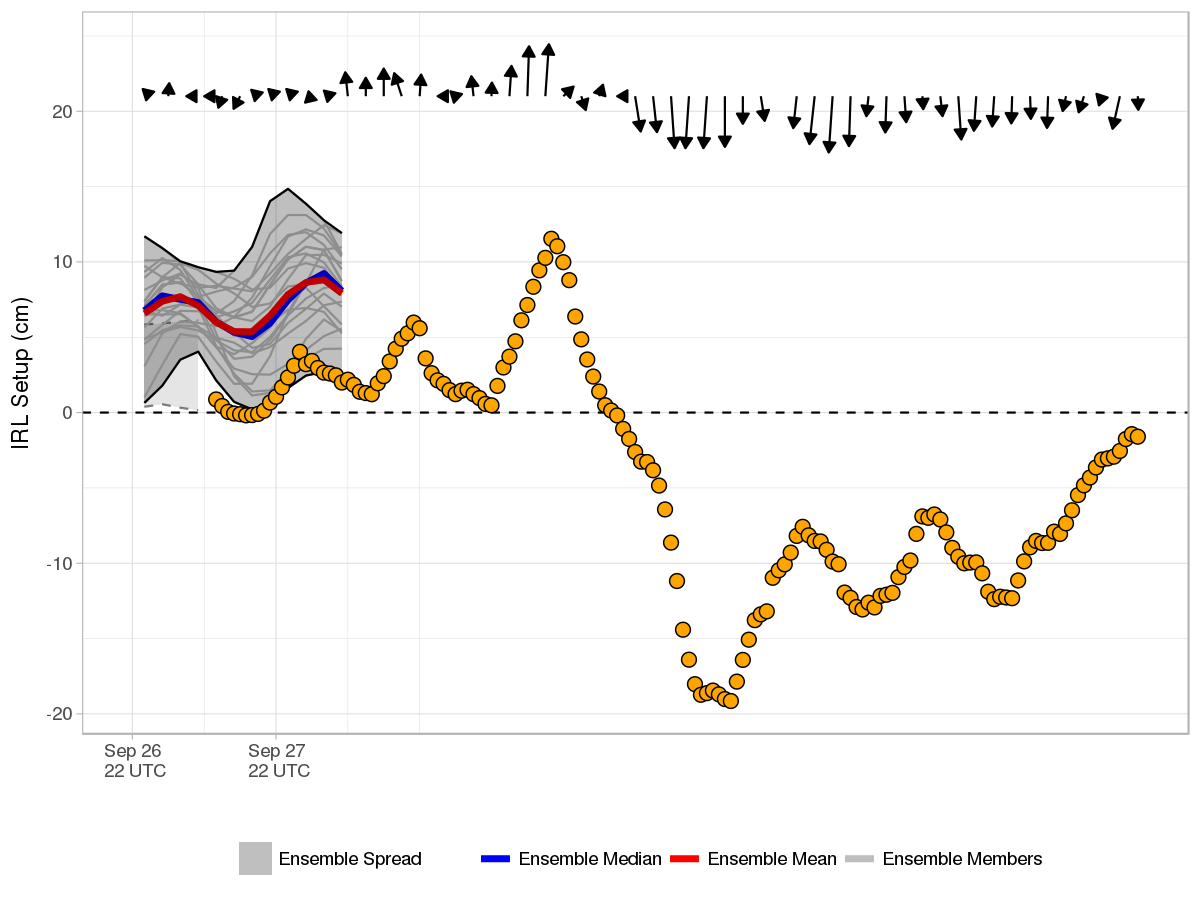
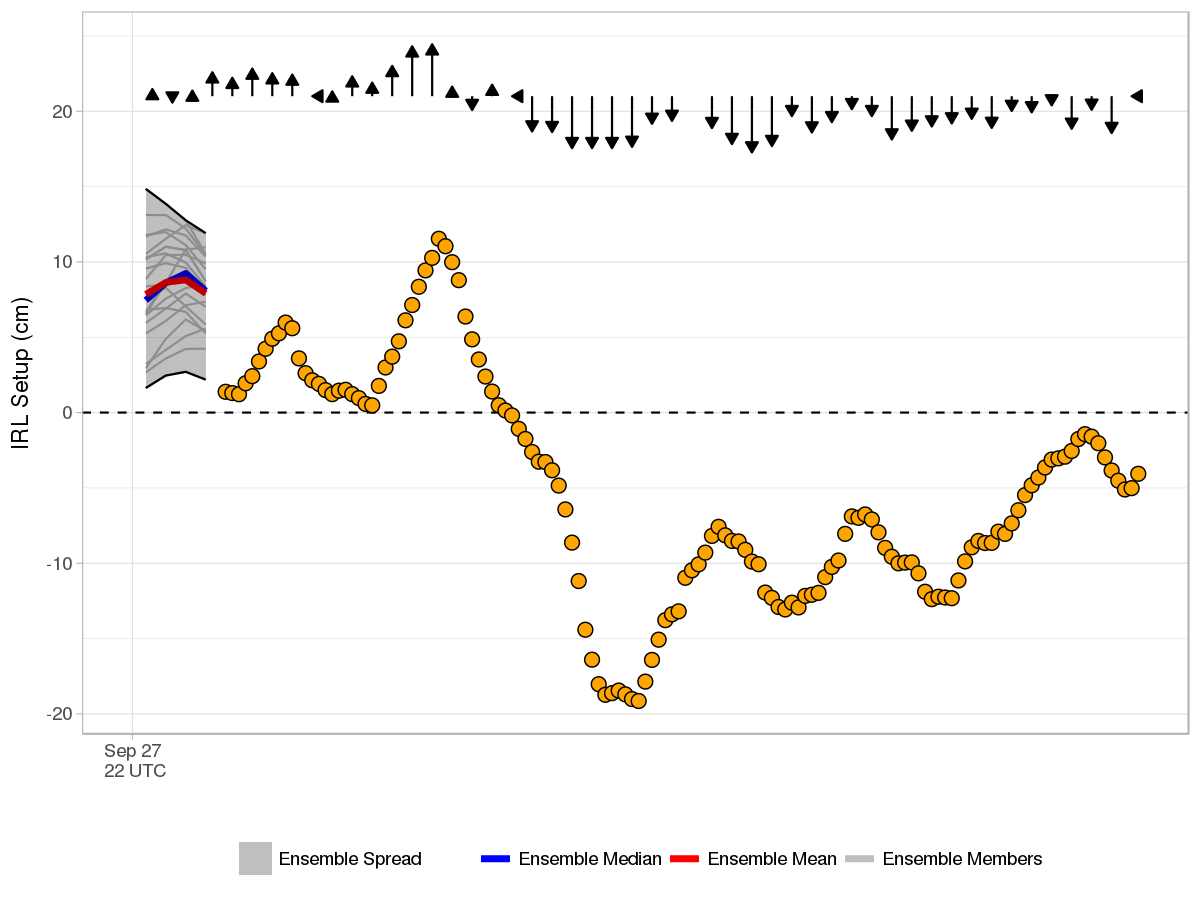
Forecast Update 2020100400

diff --git a/docs/index.md b/docs/index.md
@@ -1,9 +1,9 @@
-Current Forecast 2020-10-03 18Z
+Current Forecast 2020-10-04 00Z
 -----------------------------------
 
 [![](img/raw_setup.png)](https://fit-winds.github.io/IRLSetup/img/raw_setup.png)
 
-> Forecast valid 2020-10-03 19:04:44.
+> Forecast valid 2020-10-04 01:37:01.
 
 Explanation
 -----------
